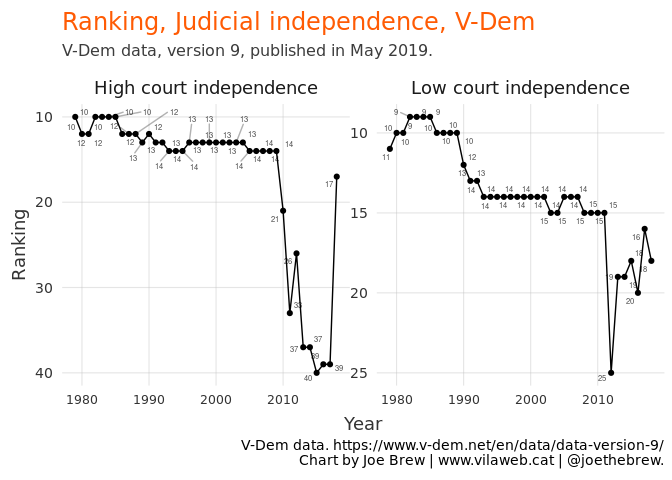
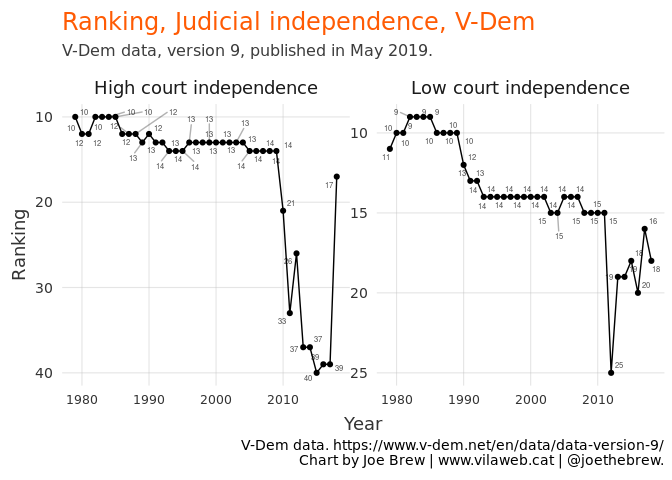
done with vdem article

diff --git a/analyses/vdem/README.md b/analyses/vdem/README.md
@@ -108,3 +108,109 @@ This, again, is false.
 There are two variables in the V-Dem which directly measure judicial independence. These are (i) `v2juhcind` (high court independence) and `v2juncind` (low court independence). In these two variables, Spain ranks 17th and 18th, respectively, not 7th. The below chart shows the correct data.
 
 ![](figures/unnamed-chunk-5-1.png)
+
+What Global Spain reported as "judicial independence" was actually a misleading translation of the "Judicial constraints on the executive" index. This index indeed *includes* some measures on judicial independence, but it also includes other measures (such as the executive's respect for the Constitution, compliance with courts, etc.). Here is Global Spain's infographic showing the misleading translation:
+
+<img src="img/judb.jpeg"/>
+
+How did these mistakes happen?
+==============================
+
+Global Spain reported false information. But I call this a "mistake" and not a "lie" because it is entirely plausible that they simply were not aware that the information they were reporting was false.
+
+Here is what I suspect happened: someone at Global Spain decided to compare the [2019 V-Dem democracy report](https://www.v-dem.net/media/filer_public/99/de/99dedd73-f8bc-484c-8b91-44ba601b6e6b/v-dem_democracy_report_2019.pdf) with the [2018 report](https://www.v-dem.net/media/filer_public/68/51/685150f0-47e1-4d03-97bc-45609c3f158d/v-dem_annual_dem_report_2018.pdf). They looked at the pdf files from two different years, saw the scores and rankings, and turned those into an infographic. Sounds fine, right? Wrong.
+
+Whoever did this failed to examine [V-Dem methodology and raw data](https://www.v-dem.net/en/reference/version-9-apr-2019/). If they had examined this, they would have noted that the 2019 report was based on the version 9 methodology, whereas the 2018 report was based on the version 8 methodology. Given the two methodologies, one cannot compare V9 with V8. Rather, to make comparisons over time, one should use only the most recent methodology (V9), which includes historical data.
+
+This is a bit confusing, right? When I examined the raw data, and saw the discrepancies with the historical pdf reports, I also got confused. So, I wrote to V-Dem and asked why it is that the 2018 pdf report contained different values than the V9 raw data.
+
+Johannes von Römer, the Senior Data Manager at V-Dem, wrote back. He explained that "Comparing absolute index values between different versions of our datasets" (exactly what Global Spain had done) "can be misleading, due to several different factors". He then listed reasons, including:
+
+1.  "Coders add data with every update".
+
+2.  "We currently allow our coders to update and change their ratings back in time if they have come across new and more accurate information. This should lead to a continuous improvement of the data quality over time". So V9 should be considered "improved" relative to V8.
+
+In other words, the more recent versions not only contain more recent data, but also more accurate data of the past. And because the statistical methods across different versions are different, one should not compare data across different versions (which is what Global Spain did). Rather, one should compare data across time, using the same version (which is what I've done in this article).
+
+Von Römer explained further. "Users should always use our newest dataset since it has improved data quality over previous dataset versions". Since my question to V-Dem specifically pertained to data on Spain, Dr. Von Römer addressed the issue as well: "If Spanish State employees wanted to know if Liberal Democracy improved from 2017 to 2018 they should look at v9 data for both years in which Spain ranked 26 in both years, but reduced their scores from 0.747 in 2017 to 0.742 in 2018. However, this change is well inside confidence intervals so it cannot be considered much of a decrease."
+
+In other words, Spain's "Liberal Democracy Index" score, like its ranking, did not improve last year. In the case of Global Spain's efforts to show an improvement, "if the government employees as described by you compare v8 2017 scores with either v9 2018 or v9 2017 scores that would be very misleading in both cases due to the V-Dem methodology."
+
+Conclusion
+==========
+
+Global Spain published, and then heavily publicized, an "improvement" in its ranking and scores as a liberal democracy via the V-Dem data. It also stated, and publicized, that it was a top-10 country in the world according to V-Dem's in the area of "judicial independence". Both the improvement and the top-10 judicial independence scores are false. Spain's "Liberal Democracy Index" score did not improve over the last year, and Spain is not in the top 10 countries in the world in "judicial independence" according to the V-Dem.
+
+Like I said, it is entirely plausible that this was a simple mistake on the part of Global Spain, and not an attempt to mislead. And if this was indeed a mistake, I hope that Global Spain will make as much of an effort to publish the *real* data (as I've reported in this article, and as is publicly available on [V-Dem's website](https://www.v-dem.net/en/)) as they did to publish the *false* data last week.
+
+Appendix
+========
+
+For the sake of complete transparency, you can see the [code used for the production of charts in this paper](https://github.com/joebrew/vilaweb/tree/master/analyses/vdem). Also, my email to V-Dem as well as their full response is below.
+
+### Email to V-Dem
+
+*Sent by Joe Brew on May 24, 2019*
+
+Dear Dr. Teorell (and V-Dem team),
+
+I'm an admirer of your work with the V-Dem - thanks for what you do.
+
+I have a question about a data discrepancy. The 2018 report ([here](https://www.v-dem.net/media/filer_public/68/51/685150f0-47e1-4d03-97bc-45609c3f158d/v-dem_annual_dem_report_2018.pdf)) show's Spain's year 2017 LDI score as 0.703 (rank = 36). However, in the raw data (downloaded from here both as R and .csv files), the 2017 LDI score (variable name = 'v2x\_libdem') is 0.747 (rank = 26).
+
+A similar discrepancy exists with the clean elections variable. The 2018 report shows a 2017 value of 0.941 (rank = 22). However, in the raw data, the 2017 clean elections score (variable name = 'v2xel\_frefair') is 0.96 (rank = 12).
+
+Can you explain the source of these disrepancies? Is the 2018 report incorrect, or are the raw datasets incorrect?
+
+I ask because Spanish State employees are [actively publicizing](https://twitter.com/lozanoirene/status/1131821163708129280) how the V-Dem report shows an improvement in Spain's LDI (from the 2018 to 2019 reports, ie the 2017 to 2018 datasets), as suggested by the pdf reports. But the raw data tells a different story.
+
+Many thanks. Cheers,
+
+Joe Brew
+
+### V-Dem's response to Joe Brew
+
+*Sent from Johannes von Römer, Senior Data Manager, V-Dem Institute, on May 27 2019*
+
+Hi,
+
+Thank you for using V-Dem data!
+
+To your question.
+
+Can I compare index scores across versions, e.g. between version 9 and 8 of the V-Dem dataset?
+
+No. Comparing absolute index values between different versions of our datasets can be misleading, due to several different factors;
+
+First, coders add data with every annual update.
+
+Second, we currently allow our coders to update and change their ratings back in time if they have come across new and more accurate information. This should lead to a continuous improvement of the data quality over time.
+
+Third, there is some attrition of coders as well as recruitment of additional coders for every new release.
+
+Fourth, we strive for full coverage and therefore continuously add new countries and expand our time-series. For each variable the input of our Bayesian Item Response Theory Measurement model contains the coder scores for that specific question across all countries and years (in reduced form, capturing changes only).
+
+Because of all the factors mentioned above the input per variable changes with every annual release. Consequently, the output of the statistical model varies, and the scores are hence expected to change with new releases, even for older years.
+
+Each index is an aggregation of several variables. However, an interpretation of index scores is only meaningful in comparison to other index scores across time or countries within the same index (e.g. rank orders).
+
+Users should always use our newest dataset since it has improved data quality over previous dataset versions simply already by better assessing coder-thresholds due to additional data.
+
+For the case of the Liberal Democracy Index for Spain this means that while in v8 Spain was ranked 35 for v2x\_libdem for the year 2017, in v9 Spain ranked 26 for the year 2017. Spain could thus celebrate that they thought they were ranked at around 35 in the year 2017, but newer data suggests that they were actually ranked around 26 in 2017.
+
+If Spanish State employees wanted to know if Liberal Democracy improved from 2017 to 2018 they should look at v9 data for both years in which Spain ranked 26 in both years, but reduced their scores from 0.747 in 2017 to 0.742 in 2018. However, this change is well inside confidence intervals so it cannot be considered much of a decrease.
+
+If the government employees as described by you compare v8 2017 scores with either v9 2018 or v9 2017 scores that would be very misleading in both cases due to the V-Dem methodology. To clarify, the 2019 report uses v9 data (data until 2018) and the 2018 report uses v8 data (data until 2017).
+
+Please feel free to contact me for any further inquiries.
+
+Best regards, Johannes von Römer Senior Data Manager V-Dem Institute <https://v-dem.net>
+
+Catalan language plots
+======================
+
+![](figures/unnamed-chunk-6-1.png)
+
+![](figures/unnamed-chunk-7-1.png)
+
+![](figures/unnamed-chunk-8-1.png)
